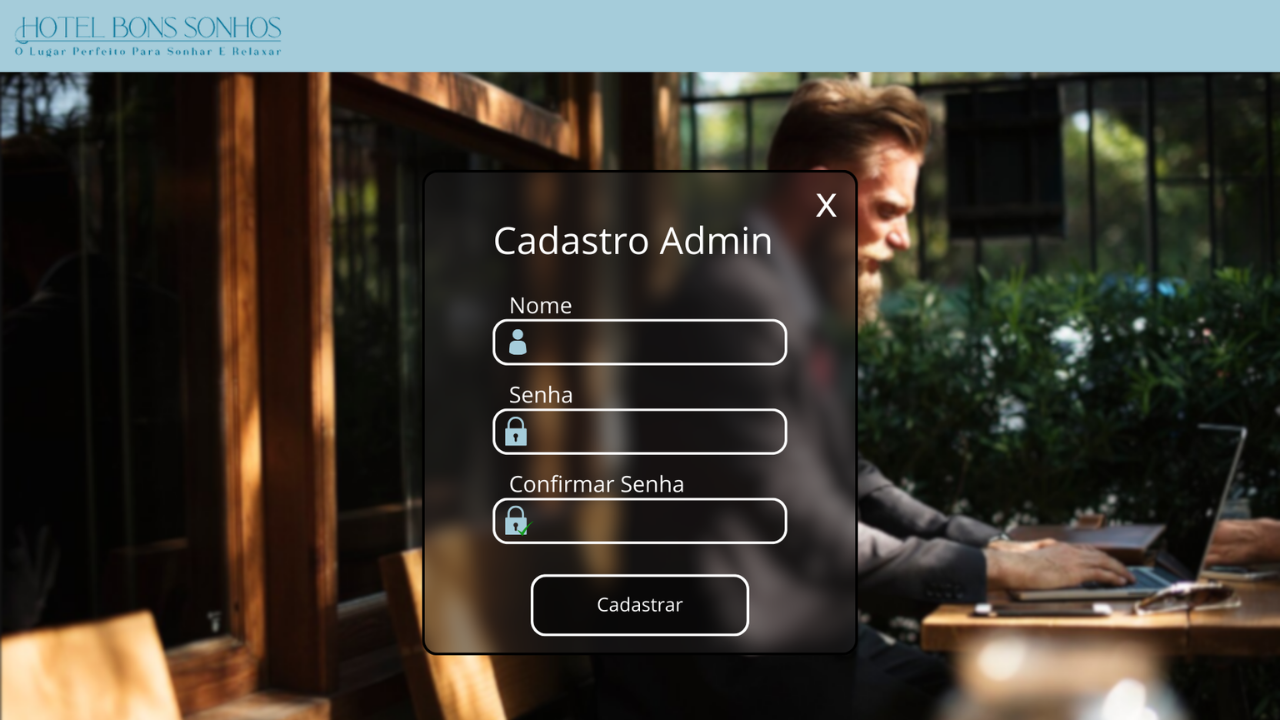
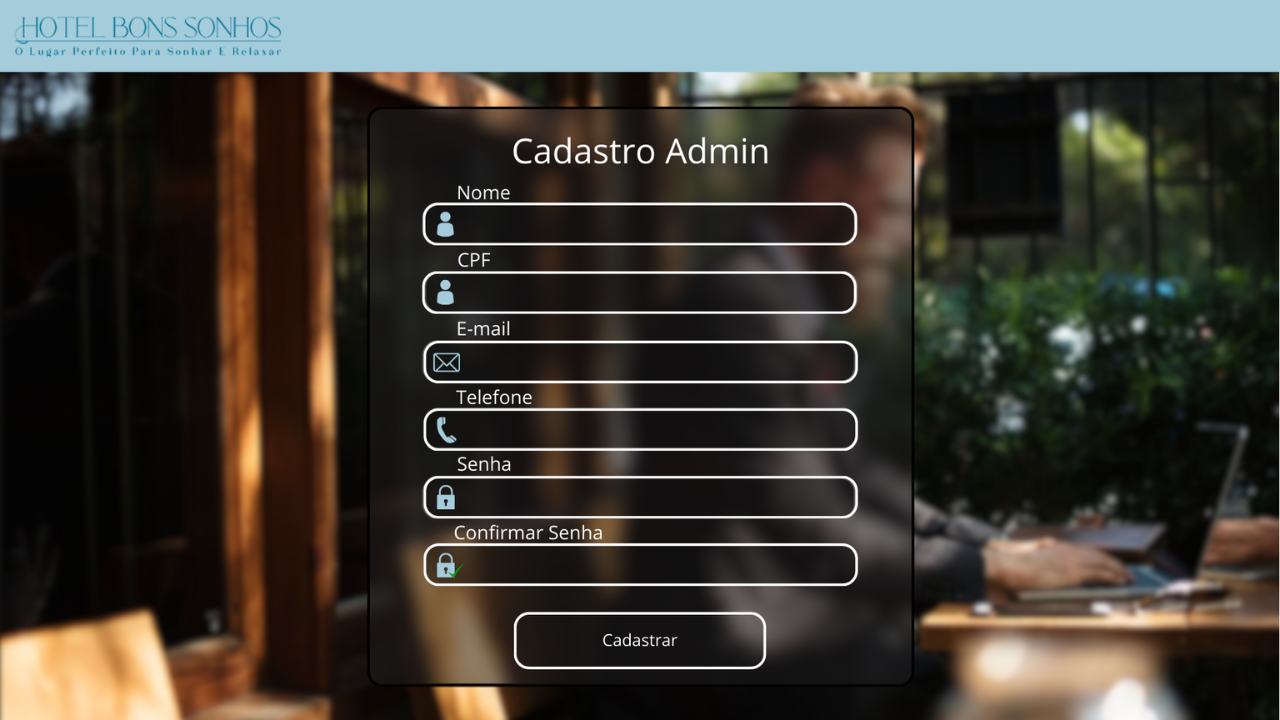
feita conexão entre telas

diff --git a/src/main/java/views/TelaCadastroADM.java b/src/main/java/views/TelaCadastroADM.java
@@ -13,7 +13,10 @@ import controller.LoginController;
 import dto.AdmDTO;
 
 public class TelaCadastroADM extends JanelaPadrao{
-    private EspacoTexto usuario = new EspacoTexto();
+    private EspacoTexto nome = new EspacoTexto();
+    private EspacoTexto CPF = new EspacoTexto();
+    private EspacoTexto email = new EspacoTexto();
+    private EspacoTexto telefone = new EspacoTexto();
     private EspacoSenha senha = new EspacoSenha();
     private EspacoSenha confirmarSenha = new EspacoSenha();
     private Botao cadastrar = new Botao(false);
@@ -27,18 +30,19 @@ public class TelaCadastroADM extends JanelaPadrao{
     private void ouvintes() {
         cadastrar.addActionListener(new ActionListener() {
             public void actionPerformed(ActionEvent e) {
-                String pegarUsuario = usuario.getText();
+                String pegarNome = nome.getText();
                 String pegarSenha = String.valueOf(senha.getPassword());
                 String pegarConfirmarSenha = String.valueOf(confirmarSenha.getPassword());
+                String cpf = CPF.getText();
+                String pegarEmail = email.getText();
+                String pegarTelefone = telefone.getText();
 
                 if (!verificarSenhas(pegarSenha, pegarConfirmarSenha)) {
                     JOptionPane.showMessageDialog(null, "Os campos senha e confirmar senha devem ser iguais!");
                     return;
                 }
 
-                String cpf = JOptionPane.showInputDialog("Digite seu cpf:");
-
-                AdmDTO dto = new AdmDTO(null, pegarUsuario, cpf, null, pegarSenha);
+                AdmDTO dto = new AdmDTO(pegarNome,pegarEmail, cpf, pegarTelefone, pegarSenha);
                 AdmDTO adm = LoginController.cadastrarAdmin(dto);
                 if (adm != null) {
                     JOptionPane.showMessageDialog(null, "Bem-vindo, " + adm.getNome() + "! Você foi cadastrado com sucesso");
@@ -52,16 +56,22 @@ public class TelaCadastroADM extends JanelaPadrao{
     }
 
     private void objetos() {
-        int a = 529, c = 260,d = 49;
+        int a = 463, c = 378,d = 36;
 
-        usuario.setBounds(a,317,c,d);
-        senha.setBounds(a,407,c,d);
-        confirmarSenha.setBounds(a,497,c,d);
+        nome.setBounds(a,206,c,d);
+        CPF.setBounds(a,274,c,d);
+        email.setBounds(a,343,c,d);
+        telefone.setBounds(a,411,c,d);
+        senha.setBounds(a,479,c,d);
+        confirmarSenha.setBounds(a,546,c,d);
         cadastrar.setBounds(529,573,220,64);
-        add(usuario);
+        add(nome);
         add(senha);
         add(confirmarSenha);
         add(cadastrar);
+        add(CPF);
+        add(email);
+        add(telefone);
     }
 
     public static void main(String[] args) {

diff --git a/src/main/java/views/TelaCadastrarClientes.java b/src/main/java/views/TelaCadastrarClientes.java
@@ -13,7 +13,10 @@ import controller.LoginController;
 import dto.ClienteDTO;
 
 public class TelaCadastrarClientes extends JanelaPadrao{
-    private EspacoTexto usuario = new EspacoTexto();
+    private EspacoTexto nome = new EspacoTexto();
+    private EspacoTexto CPF = new EspacoTexto();
+    private EspacoTexto email = new EspacoTexto();
+    private EspacoTexto telefone = new EspacoTexto();
     private EspacoSenha senha = new EspacoSenha();
     private EspacoSenha confirmarSenha = new EspacoSenha();
     private Botao cadastrar = new Botao(false);
@@ -32,33 +35,41 @@ public class TelaCadastrarClientes extends JanelaPadrao{
     }
 
     private void objetos() {
-        int a = 529, c = 260,d = 49;
+        int a = 463, c = 378,d = 36;
 
-        usuario.setBounds(a,317,c,d);
-        senha.setBounds(a,407,c,d);
-        confirmarSenha.setBounds(a,497,c,d);
+        nome.setBounds(a,206,c,d);
+        CPF.setBounds(a,274,c,d);
+        email.setBounds(a,343,c,d);
+        telefone.setBounds(a,411,c,d);
+        senha.setBounds(a,479,c,d);
+        confirmarSenha.setBounds(a,546,c,d);
         cadastrar.setBounds(529,573,220,64);
-        add(usuario);
+        add(nome);
         add(senha);
         add(confirmarSenha);
         add(cadastrar);
+        add(CPF);
+        add(email);
+        add(telefone);
     }
 
     private void ouvintes() {
         cadastrar.addActionListener(new ActionListener() {
             public void actionPerformed(ActionEvent e) {
-                String pegarUsuario = usuario.getText();
+                String pegarNome = nome.getText();
                 String pegarSenha = String.valueOf(senha.getPassword());
                 String pegarConfirmarSenha = String.valueOf(confirmarSenha.getPassword());
+                String cpf = CPF.getText();
+                String pegarEmail = email.getText();
+                String pegarTelefone = telefone.getText();
 
                 if (!verificarSenhas(pegarSenha, pegarConfirmarSenha)) {
                     JOptionPane.showMessageDialog(null, "Os campos senha e confirmar senha devem ser iguais!");
                     return;
                 }
 
-                String cpf = JOptionPane.showInputDialog("Digite seu cpf:");
 
-                ClienteDTO dto = new ClienteDTO(null, pegarUsuario, cpf, null, pegarSenha);
+                ClienteDTO dto = new ClienteDTO(pegarNome, pegarEmail, cpf, pegarTelefone, pegarSenha);
                 ClienteDTO cliente = LoginController.cadastrarCliente(dto);
                 if (cliente != null) {
                     JOptionPane.showMessageDialog(null, "Bem-vindo, " + cliente.getNome() + "! Você foi cadastrado com sucesso");

diff --git a/src/main/java/views/TelaLogin.java b/src/main/java/views/TelaLogin.java
@@ -1,6 +1,7 @@
 package views;
 
 import controller.LoginController;
+import dao.UsuarioDAO;
 import dto.ClienteDTO;
 import dto.UsuarioDTO;
 import views.ObjetosTelas.Botao;
@@ -38,6 +39,11 @@ public class TelaLogin extends JanelaPadrao{
 
         cadastrar.addActionListener(new ActionListener() {
             public void actionPerformed(ActionEvent e) {
+                if(new UsuarioDAO().listarTodosUsuarios().size() > 0){
+                    new TelaCadastrarClientes();
+                }else{
+                    new TelaCadastroADM();
+                }
                 dispose();
             }
         });

diff --git a/src/main/java/views/AtualizarCliente.java b/src/main/java/views/AtualizarCliente.java
@@ -19,7 +19,6 @@ public class AtualizarCliente extends PainelPadrao{
     private Botao lupa = new Botao(false);
 
 
-
     public AtualizarCliente(){
         objetos();
         ouvintes();

diff --git a/src/main/java/views/JanelaPadrao.java b/src/main/java/views/JanelaPadrao.java
@@ -1,5 +1,6 @@
 package views;
 
+import dao.UsuarioDAO;
 import views.ObjetosTelas.Botao;
 
 import javax.swing.*;
